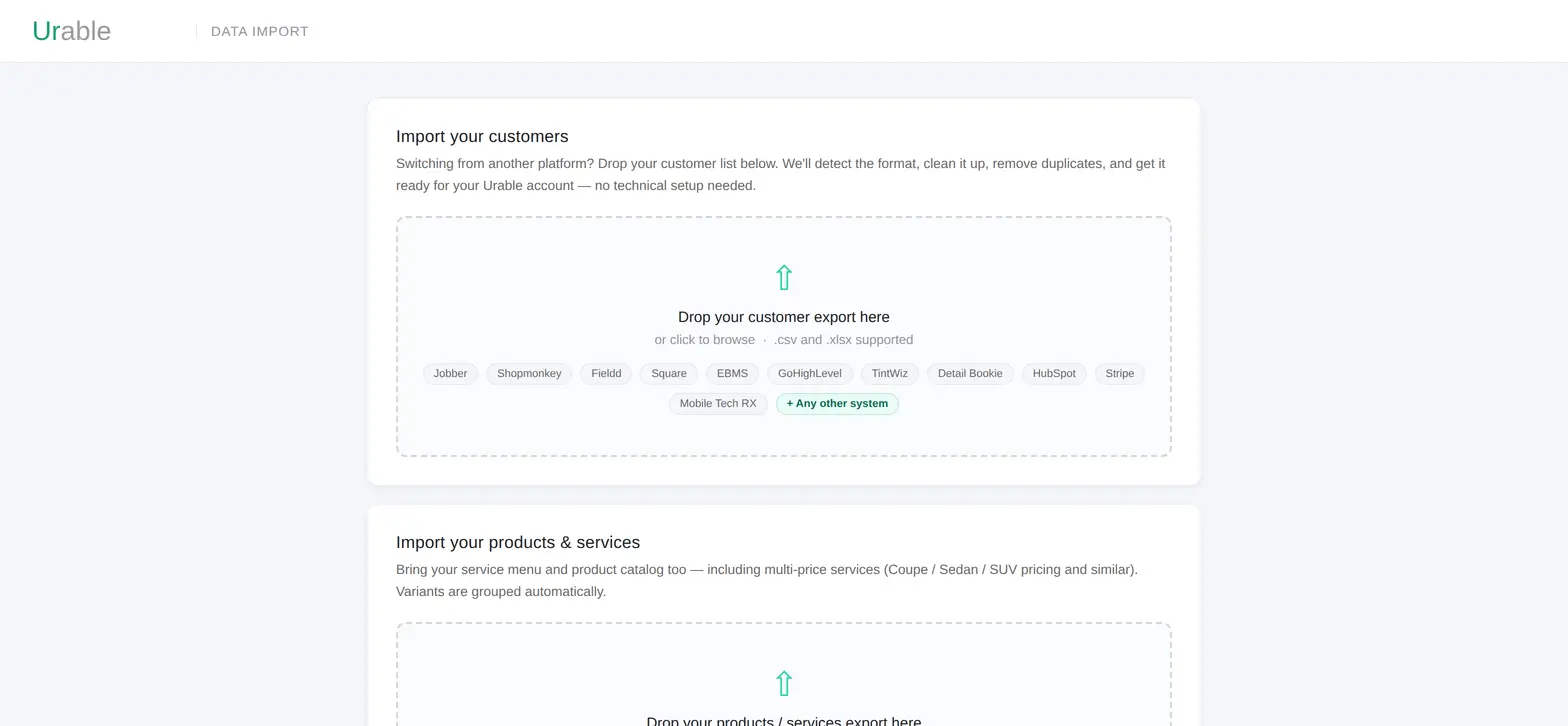
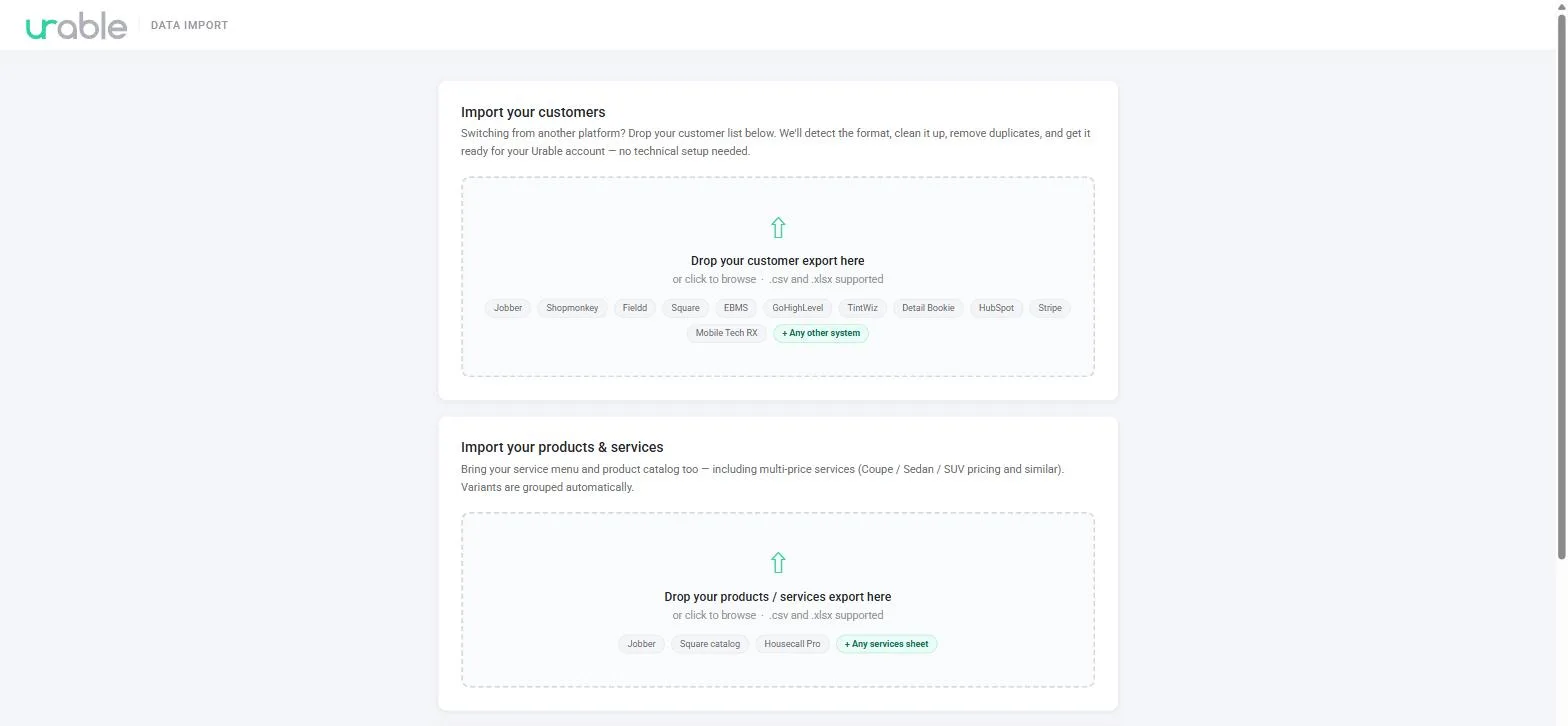
Walkthrough: real tool screenshot for step 1, add API key creation steps (19 steps)

diff --git a/walkthrough/index.html b/walkthrough/index.html
@@ -206,7 +206,7 @@
     <button class="part-tab" id="tabA" onclick="goTo(0)">Part A · Customers</button>
     <button class="part-tab" id="tabB" onclick="goTo(4)">Part B · Unknown Formats</button>
     <button class="part-tab" id="tabC" onclick="goTo(8)">Part C · Import to Urable</button>
-    <button class="part-tab" id="tabD" onclick="goTo(10)">Part D · Services & Jobs</button>
+    <button class="part-tab" id="tabD" onclick="goTo(14)">Part D · Services & Jobs</button>
   </div>
 </header>
 
@@ -221,7 +221,7 @@
   </div>
 
   <div class="caption">
-    <div class="step-no"><small>Step</small><span id="stepNum">1</span>/<span id="stepTot">15</span></div>
+    <div class="step-no"><small>Step</small><span id="stepNum">1</span>/19</div>
     <div class="step-text">
       <h2 id="stepTitle"></h2>
       <p id="stepBody"></p>
@@ -237,54 +237,69 @@
 <script>
 const steps=[
  {img:"step-01.webp",part:"A",title:"Open the tool",
-  body:"Go to <b>urable-import-tool.vercel.app</b> and bookmark it. Nothing to download or install — it always loads the current version, so just refresh if something looks off. Three boxes: <b>Customers</b>, <b>Products &amp; Services</b>, <b>Jobs History</b>. Drop the shop's export into whichever one matches.",
+  body:"Go to <b>urable-import-tool.vercel.app</b> and bookmark it. Nothing to download or install \u2014 it always loads the current version, so just refresh if something looks off. Three boxes: <b>Customers</b>, <b>Products &amp; Services</b>, <b>Jobs History</b>. Drop the shop's export into whichever one matches.",
   hs:[50,46.4],
-  note:"Everything is processed inside your own browser. Customer files are never uploaded to a server. The one exception is the direct API import, which writes into the shop's Urable account — which is what you asked it to do."},
+  note:"Everything is processed inside your own browser. Customer files are never uploaded to a server. The one exception is the direct API import, which writes into the shop's Urable account \u2014 which is what you asked it to do."},
  {img:"step-02.webp",part:"A",title:"Check what it detected",
-  body:"Drop the file and the tool names the format it recognised — here <b>Mobile Tech RX</b>. The right-hand count is what matters: how many customers came through, and how many duplicates it merged. If that number looks wildly wrong, stop and look at the file before going further.",
+  body:"Drop the file and the tool names the format it recognised \u2014 here <b>Mobile Tech RX</b>. The right-hand count is what matters: how many customers came through, and how many duplicates it merged. If that number looks wildly wrong, stop and look at the file before going further.",
   hs:[71.4,33.1]},
  {img:"step-03.webp",part:"A",title:"Read the preview",
-  body:"The first five rows, mapped into the Urable template. Spot-check them: names in the right fields, phone numbers intact, addresses where you expect. Two people on one phone number stay two customers — households share a home phone, so the tool only merges when the names match too.",
+  body:"The first five rows, mapped into the Urable template. Spot-check them: names in the right fields, phone numbers intact, addresses where you expect. Two people on one phone number stay two customers \u2014 households share a home phone, so the tool only merges when the names match too.",
   hs:[50,51]},
  {img:"step-04.webp",part:"A",title:"Download the CSV",
   body:"Click <b>Download Urable-ready CSV</b> and send it to the onboarding specialist, or upload it yourself if CSV import is enabled on the account. This is the normal path and the safest one, because a human sees the file before anything is written.",
   hs:[33,88.4],
-  note:"The file comes out at exactly 13 columns with no blank rows — nothing past the Item column. That's deliberate: the Urable importer rejects files with stray columns hanging off the end."},
+  note:"The file comes out at exactly 13 columns with no blank rows \u2014 nothing past the Item column. That's deliberate: the Urable importer rejects files with stray columns hanging off the end."},
  {img:"step-05.webp",part:"B",title:"When the format isn't recognised",
-  body:"If the columns are tidy but the system is one the tool hasn't seen, you get <b>Map your columns</b> instead of a preview. This is normal and it's still a two-minute job — you're just telling the tool which column is which.",
+  body:"If the columns are tidy but the system is one the tool hasn't seen, you get <b>Map your columns</b> instead of a preview. This is normal and it's still a two-minute job \u2014 you're just telling the tool which column is which.",
   hs:[50,19.2]},
  {img:"step-06.webp",part:"B",title:"Match the columns",
-  body:"Each Urable field gets a dropdown. The tool pre-fills its best guesses and highlights them <b>green</b> — check those first, they're usually right. Set anything irrelevant to <b>— skip —</b>. If the file has one full-name column, pick it for First Name and the tool splits it.",
+  body:"Each Urable field gets a dropdown. The tool pre-fills its best guesses and highlights them <b>green</b> \u2014 check those first, they're usually right. Set anything irrelevant to <b>\u2014 skip \u2014</b>. If the file has one full-name column, pick it for First Name and the tool splits it.",
   hs:[55.7,45.0]},
  {img:"step-07.webp",part:"B",title:"Keep everything, then apply",
-  body:"Leave <b>Add all unmapped columns to Notes</b> ticked. Anything you didn't map lands in the customer's Notes instead of being thrown away — lead source, tags, account numbers. Then click <b>Apply mapping</b>.",
+  body:"Leave <b>Add all unmapped columns to Notes</b> ticked. Anything you didn't map lands in the customer's Notes instead of being thrown away \u2014 lead source, tags, account numbers. Then click <b>Apply mapping</b>.",
   hs:[25.7,82.1],
   note:"Not confident about a mapping? Send the file to Claire instead of guessing. She has a Claude skill that cleans messy lists into the Urable template, and the cleaned file drops straight back into this tool."},
  {img:"step-08.webp",part:"B",title:"Same preview, same download",
-  body:"After Apply you're back on the standard preview and the flow is identical to Part A — check the rows, then download the CSV or switch to the direct import.",
+  body:"After Apply you're back on the standard preview and the flow is identical to Part A \u2014 check the rows, then download the CSV or switch to the direct import.",
   hs:[50,51]},
- {img:"step-09.webp",part:"C",title:"Switch to direct import",
-  body:"The <b>Import directly to Urable</b> tab writes straight into the shop's account. You'll need an API key from <b>their</b> account: Settings &rarr; Developer &rarr; API Keys &rarr; Create API key. Requires an admin login. Leave the server on <b>Production</b> and set the industry to match the shop.",
+ {img:"step-09a.webp",part:"C",title:"Find the API keys",
+  body:"The direct import needs an API key from the <b>customer's</b> Urable account, not yours. In their account go to <b>Settings</b>, scroll to the <b>Developer</b> section, and click <b>+ CREATE API KEY</b>. This needs an admin login.",
+  hs:[75.1,64.9],
+  note:"Existing keys are listed here with their scopes. If a shop already has a key you can't read it \u2014 keys are only ever shown once \u2014 so just create a new one."},
+ {img:"step-09b.webp",part:"C",title:"Name it",
+  body:"Call it <b>Urable Import</b>. The name is only a label, but a clear one means the shop knows what it's for later and can revoke it safely once the migration is done.",
+  hs:[49.6,34.8]},
+ {img:"step-09c.webp",part:"C",title:"Tick every scope",
+  body:"Select <b>all</b> of the scopes listed. The importer touches customers, items, products, jobs, payments and more, and a key missing even one scope fails partway through the import rather than up front. There's no downside to granting them all on a key you revoke afterwards.",
+  hs:[36.2,55.4],
+  note:"Scroll the whole list \u2014 the scopes continue past the bottom of the panel. All sixteen should be checked before you save."},
+ {img:"step-09d.webp",part:"C",title:"Copy it now",
+  body:"The key is shown <b>once</b>. Copy it with the icon on the right and paste it straight into the import tool before you click Done. Once this dialog closes there is no way to see it again.",
+  hs:[62.6,53.2],
+  note:"Lost it? No problem \u2014 you can't recover a key, but you can create another one in seconds. Revoke the old one so it doesn't linger."},
+ {img:"step-09.webp",part:"C",title:"Paste it into the tool",
+  body:"Back in the import tool, switch to the <b>Import directly to Urable</b> tab and paste the key. Leave the server on <b>Production</b> and set the industry to match the shop.",
   hs:[37.3,66.9],
   note:"The key is used for that import only and is never stored. It stays in the browser tab."},
  {img:"step-10.webp",part:"C",title:"Test, then start",
-  body:"Always click <b>Test connection</b> first — it confirms the key works before anything gets written. Leave <b>Also create vehicles</b> and <b>Tag each customer's origin</b> ticked unless you have a reason not to; the origin tag is what lets the shop report on migrated vs. new customers later. Then <b>Start import</b>.",
+  body:"Always click <b>Test connection</b> first \u2014 it confirms the key works before anything gets written. Leave <b>Also create vehicles</b> and <b>Tag each customer's origin</b> ticked unless you have a reason not to; the origin tag is what lets the shop report on migrated vs. new customers later. Then <b>Start import</b>.",
   hs:[70,66.9],
-  note:"There is no bulk undo. Imports are safe to re-run — the tool scans the account first and matches records that already exist — but nothing removes them once they're in."},
+  note:"There is no bulk undo. Imports are safe to re-run \u2014 the tool scans the account first and matches records that already exist \u2014 but nothing removes them once they're in."},
  {img:"step-11.webp",part:"D",title:"Products & services",
-  body:"Same flow in the second box. Tiered menus come through grouped — a service priced for Coupe / Sedan / SUV becomes one service with three price points, not three services.",
+  body:"Same flow in the second box. Tiered menus come through grouped \u2014 a service priced for Coupe / Sedan / SUV becomes one service with three price points, not three services.",
   hs:[71.9,33.1]},
  {img:"step-12.webp",part:"D",title:"Check prices before importing",
   body:"Services vary wildly between systems, so this preview is worth more of your attention than the customer one. Check the prices and the variant labels against the shop's actual menu.",
   hs:[50,52.6]},
  {img:"step-13.webp",part:"D",title:"Jobs history",
-  body:"The third box is the full migration: past jobs with dates, vehicles, services, invoice amounts and historical payments. Note the second figure — total historical payments. Jobs are <b>API import only</b>; there's no CSV path.",
+  body:"The third box is the full migration: past jobs with dates, vehicles, services, invoice amounts and historical payments. Note the second figure \u2014 total historical payments. Jobs are <b>API import only</b>; there's no CSV path.",
   hs:[67.3,33.1]},
  {img:"step-14.webp",part:"D",title:"Review the jobs preview",
   body:"Job numbers, status, customer, vehicle, line items and amounts. Job totals are exact; the split across individual line items is approximate, because most source exports don't carry per-line prices.",
   hs:[50,37.7]},
  {img:"step-15.webp",part:"D",title:"The one decision that matters",
-  body:"<b>Add each historical service to the catalog</b> — leave this <b>unchecked</b> on an account that already has a real service menu. Historical jobs then bill against a single generic \"Imported historical service\" entry, with the real names preserved in each job's notes, so the shop's live catalog stays clean. Tick it only on a fresh account with no menu yet.",
+  body:"<b>Add each historical service to the catalog</b> \u2014 leave this <b>unchecked</b> on an account that already has a real service menu. Historical jobs then bill against a single generic \"Imported historical service\" entry, with the real names preserved in each job's notes, so the shop's live catalog stays clean. Tick it only on a fresh account with no menu yet.",
   hs:[25.7,73.9],
   note:"Run the customers import first, confirm it looks right, then run jobs. The jobs pass matches existing customers rather than recreating them.",
   finish:true}
